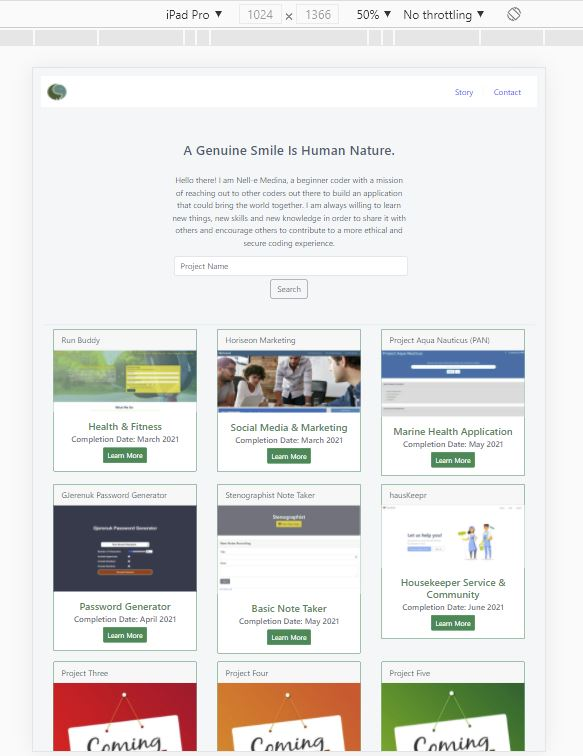
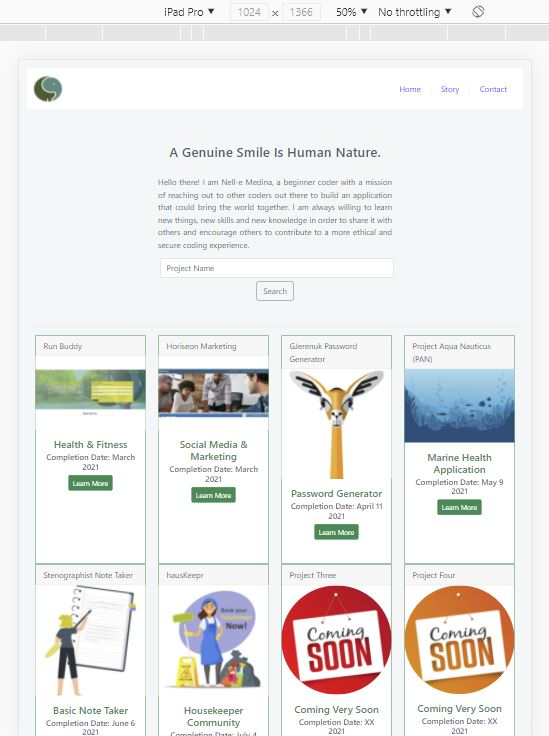
added screenshots into the README file

diff --git a/index.html b/index.html
@@ -71,8 +71,8 @@
 
             <!-- hauskeepr cards -->
             <div class="row">
-                <div class="col-sm-12 col-md-12 col-lg-4">
-                    <div class="card border-success m-2">
+                <div class="col-sm-12 col-md-12 col-lg-3">
+                    <div class="card border-success mb-3 mt-3 h-100">
                         <div class="card-header">Run Buddy</div>
                         <img src="./images/runbuddy.JPG" alt="runbuddy website with a yellow and green background" onclick="window.open('https://nellirism.github.io/runbuddy/', '_blank');" />
                         <div class="card-body text-success text-center">
@@ -83,8 +83,8 @@
                     </div>
                 </div>
 
-                <div class="col-sm-12 col-md-12 col-lg-4">
-                    <div class="card border-success m-2">
+                <div class="col-sm-12 col-md-12 col-lg-3">
+                    <div class="card border-success mb-3 mt-3 h-100">
                         <div class="card-header">Horiseon Marketing</div>
                         <img src="./images/horiseon.JPG" alt="horiseon website with 4 people in the background" onclick="window.open('https://nellirism.github.io/cerebreo-code/', '_blank');" />
                         <div class="card-body text-success text-center">
@@ -95,57 +95,59 @@
                     </div>
                 </div>
 
-                <div class="col-sm-12 col-md-12 col-lg-4">
-                    <div class="card border-success m-2">
-                        <div class="card-header">Project Aqua Nauticus (PAN)</div>
-                        <img src="./images/proejctaquanauticus.JPG" alt="Blue heading with a search bar and a search button to enter city" onclick="window.open('https://patricklago21.github.io/ucberk-project-1/', '_blank');" />
-                        <div class="card-body text-success text-center">
-                            <h5 class="card-title">Marine Health Application</h5>
-                            <h6 class="card-subtitle text-secondary mb-2">Completion Date: May 2021</h6>
-                            <button type="button" class="btn btn-success btn-sm" onclick="window.open('https://patricklago21.github.io/ucberk-project-1/', '_blank');">Learn More</button>
-                        </div>
-                    </div>
-                </div>
-
-                <div class="col-sm-12 col-md-12 col-lg-4">
-                    <div class="card border-success m-2">
+                <div class="col-sm-12 col-md-12 col-lg-3">
+                    <div class="card border-success mb-3 mt-3 h-100">
                         <div class="card-header">GJerenuk Password Generator</div>
                         <img src="./images/gjerenuk.jpg" alt="homepage of the password generator app" onclick="window.open('https://nellirism.github.io/gjerenuk/', '_blank');" />
                         <div class="card-body text-success text-center">
                             <h5 class="card-title">Password Generator</h5>
-                            <h6 class="card-subtitle text-secondary mb-2">Completion Date: April 2021</h6>
+                            <h6 class="card-subtitle text-secondary mb-2">Completion Date: April 11 2021</h6>
                             <button type="button" class="btn btn-success btn-sm" onclick="window.open('https://nellirism.github.io/gjerenuk/', '_blank');">Learn More</button>
                         </div>
                     </div>
                 </div>
 
-                <div class="col-sm-12 col-md-12 col-lg-4">
-                    <div class="card border-success m-2">
+                <div class="col-sm-12 col-md-12 col-lg-3">
+                    <div class="card border-success mb-3 mt-3 h-100">
+                        <div class="card-header">Project Aqua Nauticus (PAN)</div>
+                        <img src="./images/proejctaquanauticus.JPG" alt="Blue heading with a search bar and a search button to enter city" onclick="window.open('https://patricklago21.github.io/ucberk-project-1/', '_blank');" />
+                        <div class="card-body text-success text-center">
+                            <h5 class="card-title">Marine Health Application</h5>
+                            <h6 class="card-subtitle text-secondary mb-2">Completion Date: May 9 2021</h6>
+                            <button type="button" class="btn btn-success btn-sm" onclick="window.open('https://patricklago21.github.io/ucberk-project-1/', '_blank');">Learn More</button>
+                        </div>
+                    </div>
+                </div>
+
+
+
+                <div class="col-sm-12 col-md-12 col-lg-3">
+                    <div class="card border-success mb-3 mt-3 h-100">
                         <div class=" card-header ">Stenographist Note Taker</div>
                         <img src="./images/stenographist.jpg " alt="homepage of the password generator app " onclick="window.open( 'https://nelle898steno.herokuapp.com/', '_blank'); " />
                         <div class="card-body text-success text-center ">
                             <h5 class="card-title ">Basic Note Taker</h5>
-                            <h6 class="card-subtitle text-secondary mb-2 ">Completion Date: May 2021</h6>
+                            <h6 class="card-subtitle text-secondary mb-2 ">Completion Date: June 6 2021</h6>
                             <button type="button " class="btn btn-success btn-sm " onclick="window.open( 'https://nelle898steno.herokuapp.com/', '_blank'); ">Learn More</button>
                         </div>
                     </div>
                 </div>
 
-                <div class="col-sm-12 col-md-12 col-lg-4 ">
-                    <div class="card border-success m-2">
+                <div class="col-sm-12 col-md-12 col-lg-3">
+                    <div class="card border-success mb-3 mt-3 h-100">
                         <div class="card-header ">hausKeepr</div>
                         <img src="./images/bookhauskeepr.png" alt="A male and a female holding cleaning tools " onclick="window.open( 'https://hauskeepr-mvp.herokuapp.com/', '_blank'); " />
                         <div class="card-body text-success text-center ">
                             <h5 class="card-title ">Housekeeper Community </h5>
-                            <h6 class="card-subtitle text-secondary mb-2 ">Completion Date: June 2021</h6>
+                            <h6 class="card-subtitle text-secondary mb-2 ">Completion Date: July 4 2021</h6>
                             <button type="button " class="btn btn-success btn-sm " onclick="window.open( 'https://hauskeepr-mvp.herokuapp.com/', '_blank'); ">Learn More</button>
                         </div>
                     </div>
                 </div>
 
 
-                <div class="col-sm-12 col-md-12 col-lg-4 ">
-                    <div class="card border-success m-2">
+                <div class="col-sm-12 col-md-12 col-lg-3">
+                    <div class="card border-success mb-3 mt-3 h-100">
                         <div class="card-header ">Project Three</div>
                         <img src="./images/comingsoonred.jpg " class="img-rounded " alt="A male and a female holding cleaning tools " onclick="window.open( 'https://hauskeepr-mvp.herokuapp.com/', '_blank'); " />
                         <div class="card-body text-success text-center ">
@@ -156,8 +158,8 @@
                     </div>
                 </div>
 
-                <div class="col-sm-12 col-md-12 col-lg-4 ">
-                    <div class="card border-success m-2">
+                <div class="col-sm-12 col-md-12 col-lg-3">
+                    <div class="card border-success mb-2 mt-3 h-100">
                         <div class="card-header ">Project Four</div>
                         <img src="./images/comingsoonorange.jpg " class="card-img-top img-rounded " alt="A male and a female holding cleaning tools " onclick="window.open( 'https://hauskeepr-mvp.herokuapp.com/', '_blank'); " />
 
@@ -169,7 +171,7 @@
                     </div>
                 </div>
 
-                <div class="col-sm-12 col-md-12 col-lg-4 ">
+                <!-- <div class="col-sm-12 col-md-12 col-lg-3">
                     <div class="card border-success m-2">
                         <div class="card-header ">Project Five</div>
                         <img src="./images/comingsoongreen.jpg " class="card-img-top img-rounded " alt=" " onclick="window.open( 'https://hauskeepr-mvp.herokuapp.com/', '_blank'); " />
@@ -179,7 +181,7 @@
                             <button type="button " class="btn btn-success btn-sm ">Learn More</button>
                         </div>
                     </div>
-                </div>
+                </div> -->
             </div>
 
         </div>
